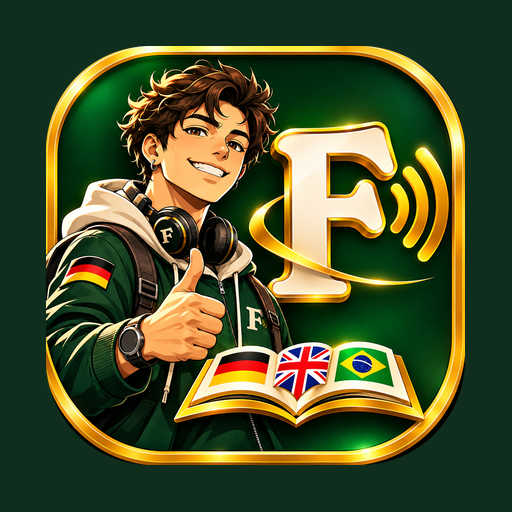
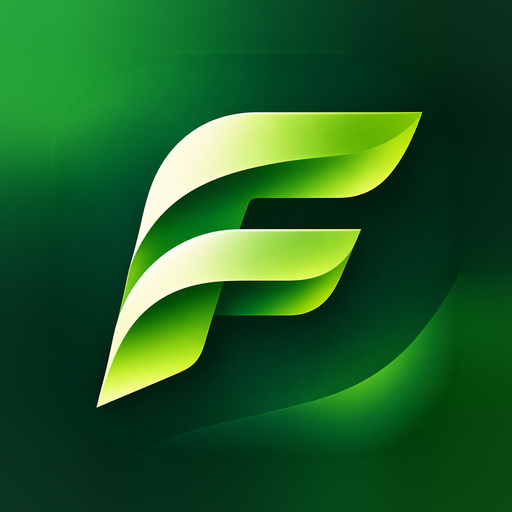
Add files via upload

diff --git a/index.html b/index.html
@@ -6,7 +6,7 @@
 <title>Falaut — Alemão, inglês e português de verdade, sem sala de aula</title>
 
 <!-- ============================================================
-     Falaut PWA  v15.3.2
+     Falaut PWA  v15.3.3
      Cole este bloco no <head> do index.html, logo depois do <title>.
      ============================================================ -->
 
@@ -16,9 +16,9 @@
 <meta name="color-scheme" content="dark">
 
 <!-- ícones -->
-<link rel="icon" type="image/png" sizes="32x32" href="/favicon-32.png">
-<link rel="icon" type="image/png" sizes="16x16" href="/favicon-16.png">
-<link rel="apple-touch-icon" href="/apple-touch-icon.png?v=15.3.2">
+<link rel="icon" type="image/png" sizes="32x32" href="/favicon-32.png?v=15.3.3">
+<link rel="icon" type="image/png" sizes="16x16" href="/favicon-16.png?v=15.3.3">
+<link rel="apple-touch-icon" href="/apple-touch-icon.png?v=15.3.3">
 
 <!-- iOS: abrir em tela cheia, sem barra do Safari -->
 <meta name="apple-mobile-web-app-capable" content="yes">
@@ -27,35 +27,35 @@
 <meta name="apple-mobile-web-app-title" content="Falaut">
 
 <!-- iOS: telas de abertura (splash). Uma por tamanho de aparelho. -->
-<link rel="apple-touch-startup-image" href="/splash/splash-750x1334.png?v=15.3.2"
+<link rel="apple-touch-startup-image" href="/splash-750x1334.png?v=15.3.3"
       media="(device-width: 375px) and (device-height: 667px) and (-webkit-device-pixel-ratio: 2) and (orientation: portrait)">  <!-- iPhone SE / 8 / 7 / 6s -->
-<link rel="apple-touch-startup-image" href="/splash/splash-1242x2208.png?v=15.3.2"
+<link rel="apple-touch-startup-image" href="/splash-1242x2208.png?v=15.3.3"
       media="(device-width: 414px) and (device-height: 736px) and (-webkit-device-pixel-ratio: 3) and (orientation: portrait)">  <!-- iPhone 8 Plus -->
-<link rel="apple-touch-startup-image" href="/splash/splash-1125x2436.png?v=15.3.2"
+<link rel="apple-touch-startup-image" href="/splash-1125x2436.png?v=15.3.3"
       media="(device-width: 375px) and (device-height: 812px) and (-webkit-device-pixel-ratio: 3) and (orientation: portrait)">  <!-- iPhone X / XS / 11 Pro -->
-<link rel="apple-touch-startup-image" href="/splash/splash-828x1792.png?v=15.3.2"
+<link rel="apple-touch-startup-image" href="/splash-828x1792.png?v=15.3.3"
       media="(device-width: 414px) and (device-height: 896px) and (-webkit-device-pixel-ratio: 2) and (orientation: portrait)">  <!-- iPhone XR / 11 -->
-<link rel="apple-touch-startup-image" href="/splash/splash-1242x2688.png?v=15.3.2"
+<link rel="apple-touch-startup-image" href="/splash-1242x2688.png?v=15.3.3"
       media="(device-width: 414px) and (device-height: 896px) and (-webkit-device-pixel-ratio: 3) and (orientation: portrait)">  <!-- iPhone XS Max / 11 Pro Max -->
-<link rel="apple-touch-startup-image" href="/splash/splash-1080x2340.png?v=15.3.2"
+<link rel="apple-touch-startup-image" href="/splash-1080x2340.png?v=15.3.3"
       media="(device-width: 360px) and (device-height: 780px) and (-webkit-device-pixel-ratio: 3) and (orientation: portrait)">  <!-- iPhone 12 mini / 13 mini -->
-<link rel="apple-touch-startup-image" href="/splash/splash-1170x2532.png?v=15.3.2"
+<link rel="apple-touch-startup-image" href="/splash-1170x2532.png?v=15.3.3"
       media="(device-width: 390px) and (device-height: 844px) and (-webkit-device-pixel-ratio: 3) and (orientation: portrait)">  <!-- iPhone 12 / 13 / 14 -->
-<link rel="apple-touch-startup-image" href="/splash/splash-1284x2778.png?v=15.3.2"
+<link rel="apple-touch-startup-image" href="/splash-1284x2778.png?v=15.3.3"
       media="(device-width: 428px) and (device-height: 926px) and (-webkit-device-pixel-ratio: 3) and (orientation: portrait)">  <!-- iPhone 14 Plus / 13 Pro Max -->
-<link rel="apple-touch-startup-image" href="/splash/splash-1179x2556.png?v=15.3.2"
+<link rel="apple-touch-startup-image" href="/splash-1179x2556.png?v=15.3.3"
       media="(device-width: 393px) and (device-height: 852px) and (-webkit-device-pixel-ratio: 3) and (orientation: portrait)">  <!-- iPhone 14 Pro / 15 / 16 -->
-<link rel="apple-touch-startup-image" href="/splash/splash-1290x2796.png?v=15.3.2"
+<link rel="apple-touch-startup-image" href="/splash-1290x2796.png?v=15.3.3"
       media="(device-width: 430px) and (device-height: 932px) and (-webkit-device-pixel-ratio: 3) and (orientation: portrait)">  <!-- iPhone 14 Pro Max / 15 Pro Max / 16 Plus -->
-<link rel="apple-touch-startup-image" href="/splash/splash-1206x2622.png?v=15.3.2"
+<link rel="apple-touch-startup-image" href="/splash-1206x2622.png?v=15.3.3"
       media="(device-width: 402px) and (device-height: 874px) and (-webkit-device-pixel-ratio: 3) and (orientation: portrait)">  <!-- iPhone 16 Pro -->
-<link rel="apple-touch-startup-image" href="/splash/splash-1320x2868.png?v=15.3.2"
+<link rel="apple-touch-startup-image" href="/splash-1320x2868.png?v=15.3.3"
       media="(device-width: 440px) and (device-height: 956px) and (-webkit-device-pixel-ratio: 3) and (orientation: portrait)">  <!-- iPhone 16 Pro Max -->
-<link rel="apple-touch-startup-image" href="/splash/splash-1536x2048.png?v=15.3.2"
+<link rel="apple-touch-startup-image" href="/splash-1536x2048.png?v=15.3.3"
       media="(device-width: 768px) and (device-height: 1024px) and (-webkit-device-pixel-ratio: 2) and (orientation: portrait)">  <!-- iPad mini / iPad 9.7 -->
-<link rel="apple-touch-startup-image" href="/splash/splash-1668x2388.png?v=15.3.2"
+<link rel="apple-touch-startup-image" href="/splash-1668x2388.png?v=15.3.3"
       media="(device-width: 834px) and (device-height: 1194px) and (-webkit-device-pixel-ratio: 2) and (orientation: portrait)">  <!-- iPad Air / Pro 11 -->
-<link rel="apple-touch-startup-image" href="/splash/splash-2048x2732.png?v=15.3.2"
+<link rel="apple-touch-startup-image" href="/splash-2048x2732.png?v=15.3.3"
       media="(device-width: 1024px) and (device-height: 1366px) and (-webkit-device-pixel-ratio: 2) and (orientation: portrait)">  <!-- iPad Pro 12.9 -->
 
 <!-- fim do bloco PWA -->
@@ -95,8 +95,8 @@
 <meta name="twitter:description" content="Sotaque, ruído de fundo, interrupções — pratique o idioma como ele realmente acontece no dia a dia, pra quem quer se envolver de verdade.">
 <meta name="twitter:image" content="https://falareal-site31.vercel.app/og-image.jpg">
 
-<link rel="icon" type="image/png" href="/favicon-32.png">
-<link rel="apple-touch-icon" href="/apple-touch-icon.png?v=15.3.2">
+<link rel="icon" type="image/png" href="/favicon-32.png?v=15.3.3">
+<link rel="apple-touch-icon" href="/apple-touch-icon.png?v=15.3.3">
 <meta name="theme-color" content="#12181f">
 
 <link rel="preconnect" href="https://fonts.googleapis.com">
@@ -149,6 +149,9 @@
   nav .wrap{display:flex;align-items:center;justify-content:space-between;height:68px;}
   .logo{font-family:var(--display);font-weight:600;font-size:1.25rem;letter-spacing:-0.02em;text-decoration:none;color:inherit;cursor:pointer;}
   .logo span{color:var(--amber);}
+  nav .logo{display:inline-flex;align-items:center;gap:8px;}
+  .logo-txt{font-weight:inherit;}
+  .logo-img{width:30px;height:30px;border-radius:8px;display:block;flex:none;}
   .nav-cta{
     font-family:var(--mono);font-size:0.8rem;letter-spacing:0.02em;
     background:var(--amber); color:var(--ink); padding:9px 18px; border-radius:100px;
@@ -1448,7 +1451,7 @@
 
 <nav>
   <div class="wrap">
-    <a href="#" class="logo" aria-label="Falaut — voltar ao topo" onclick="window.scrollTo({top:0,behavior:'smooth'}); return false;">fala<span>ut</span></a>
+    <a href="#" class="logo" aria-label="Falaut — voltar ao topo" onclick="window.scrollTo({top:0,behavior:'smooth'}); return false;"><img class="logo-img" src="/icon-192.png?v=15.3.3" alt="" width="30" height="30"><b class="logo-txt">fala<span>ut</span></b></a>
     <div class="nav-right">
       <div class="lang-toggle" role="group" aria-label="Escolher idioma" data-i18n-aria="langToggleAria">
         <button type="button" class="active" data-lang-btn="de" data-i18n-html="langBtnDe" data-i18n-aria="langNameDe" data-i18n-title="langNameDe"><span class="lt-flag">🇩🇪</span> <span class="lt-name">Alemão</span></button>
@@ -2574,7 +2577,7 @@
 <footer>
   <div class="wrap">
     <div class="footer-top">
-      <div class="logo">fala<span>ut</span> <span class="version-tag">v15.3.2</span></div>
+      <div class="logo">fala<span>ut</span> <span class="version-tag">v15.3.3</span></div>
       <p class="lang-de">Feito por um brazuca que já viveu mais de 6 anos na Alemanha.</p>
       <p class="lang-en">feito pra quem já cansou do inglês de laboratório</p>
         <p class="lang-pt" data-i18n="footerTaglinePt">Made by a Brazilian who wants to show you real Portuguese.</p>

diff --git a/offline.html b/offline.html
@@ -5,7 +5,7 @@
 <meta name="viewport" content="width=device-width, initial-scale=1, viewport-fit=cover">
 <title>Sem conexão — Falaut</title>
 <meta name="theme-color" content="#0F2E1D">
-<link rel="apple-touch-icon" href="/apple-touch-icon.png">
+<link rel="apple-touch-icon" href="/apple-touch-icon.png?v=15.3.3">
 <style>
   :root{
     --green:#0F2E1D; --gold:#C9A227; --cream:#EDE6D6; --brick:#B33A2E;
@@ -39,7 +39,7 @@
 </head>
 <body>
   <div class="wrap">
-    <img src="/icon-512.png" alt="Falaut">
+    <img src="/icon-512.png?v=15.3.3" alt="Falaut">
     <div class="rule"></div>
     <h1>Você está sem conexão</h1>
     <p>

diff --git a/sw.js b/sw.js
@@ -28,7 +28,7 @@
    embaixo do usuário no meio de um exercício.
    ============================================================ */
 
-const CACHE_VERSION = 'falaut-v15.3.2';
+const CACHE_VERSION = 'falaut-v15.3.3';
 const OFFLINE_URL   = '/offline.html';
 const NAV_TIMEOUT   = 4000;
 

diff --git a/CHANGELOG.md b/CHANGELOG.md
@@ -1,5 +1,23 @@
 # CHANGELOG — Falaut
 
+## v15.3.3 — 2026-11-14 · Logo nova (F verde) + tela de abertura que finalmente troca
+
+**Onde está:** ícone do app, favicon, tela de abertura do app instalado (iPhone/iPad), tela offline e menu do topo do site.
+
+**Por que a tela de abertura não mudou na v15.3.2:** as imagens novas foram parar na **raiz** do repositório (`splash-*.png`), mas o `index.html` procurava dentro da pasta `/splash/`, que continuava com o selo antigo "fl / FALAUT". O upload pelo GitHub não manteve a pasta.
+
+**O que mudou**
+- **Logo nova:** o F verde em duas faixas (estilo folha) vira o ícone do app (`icon-192/512`, com cantos transparentes), o ícone do iPhone (`apple-touch-icon`), o ícone do Android (`icon-*-maskable`, com o F dentro da área segura) e os favicons 16/32.
+- **Tela de abertura:** logo nova no centro, frase "idiomas de verdade, sem sala de aula." e o traço dourado embaixo.
+- **Correção do caminho:** o `index.html` agora busca as telas de abertura **direto na raiz** (`/splash-1170x2532.png` etc.), do jeito que o upload sobe. As mesmas imagens também foram colocadas na pasta `splash/`, por garantia.
+- **Menu do topo:** a logo aparece pequena ao lado do nome "falaut".
+- Todos os links de ícone e de tela de abertura ganharam `?v=15.3.3`, pra forçar o celular a baixar as imagens novas.
+
+**Atenção:** no iPhone, quem já instalou o app só vê o ícone e a tela de abertura novos removendo o app da tela inicial e adicionando de novo (Safari → Compartilhar → Adicionar à Tela de Início).
+
+**Arquivos para subir na raiz do repositório:** `index.html`, `sw.js`, `manifest.json`, `offline.html`, `CHANGELOG.md`, `icon-192.png`, `icon-512.png`, `icon-192-maskable.png`, `icon-512-maskable.png`, `apple-touch-icon.png`, `favicon-16.png`, `favicon-32.png` e os 15 arquivos `splash-*.png`.
+Service Worker: cache `falaut-v15.3.3`.
+
 ## v15.3.2 — 2026-11-13 · Falaut é alemão, inglês e português (não só alemão)
 
 **Onde está:** tela de abertura do app, tela offline, nome do app instalado e prévia de link.
